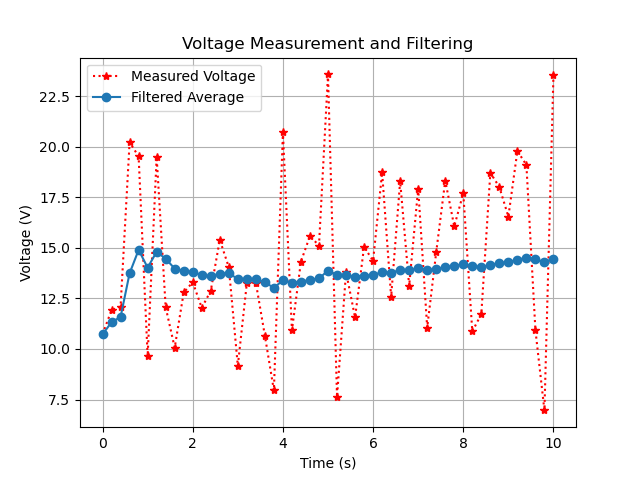
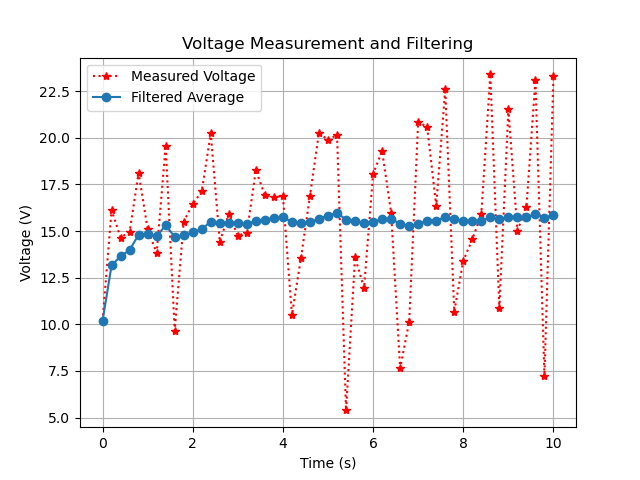
update

diff --git a/Python/02MovAvgFil/movAvg.py b/Python/02MovAvgFil/movAvg.py
@@ -1,0 +1,99 @@
+import numpy as np
+import matplotlib.pyplot as plt
+from scipy.io import loadmat
+
+# Sandy Herho <sandy.herho@email.ucr.edu>
+# This script simulates sonar measurements and applies a moving average filter to smooth the data.
+
+class MovAvgFilter:
+    def __init__(self, n=100):
+        """
+        Initialize the moving average filter with a specified buffer size.
+
+        Parameters:
+        n (int): The number of samples to use in the moving average.
+        """
+        self.n = n  # Buffer size
+        self.first_run = True
+
+    def compute(self, x):
+        """
+        Compute the moving average for a given input.
+
+        Parameters:
+        x (float): The new input sample.
+
+        Returns:
+        float: The moving average of the input.
+        """
+        if self.first_run:
+            self.xbuf = np.ones(self.n) * x  # Initialize buffer with the first value
+            self.first_run = False
+
+        # Shift the buffer and add the new value
+        self.xbuf[:-1] = self.xbuf[1:]
+        self.xbuf[-1] = x
+
+        # Compute and return the average
+        return np.sum(self.xbuf) / self.n
+
+def get_sonar():
+    """
+    Simulate a sonar reading using data from the loaded SonarAlt.mat file.
+
+    Returns:
+    float: The simulated sonar altitude.
+    """
+    if not hasattr(get_sonar, "initialized"):
+        # Emulate MATLAB's persistent variable with function attributes
+        get_sonar.initialized = True
+        get_sonar.k = 0
+        # Load sonar altitude data from the MATLAB file
+        mat_data = loadmat("SonarAlt.mat")
+        get_sonar.sonarAlt = mat_data["sonarAlt"].flatten()
+
+    # Get the current reading and increment the counter
+    h = get_sonar.sonarAlt[get_sonar.k % len(get_sonar.sonarAlt)]
+    get_sonar.k += 1
+    return h
+
+def main():
+    # User-configurable parameters
+    Nsamples = 1500  # Number of samples
+    dt = 0.02  # Time step in seconds
+    n = 100  # Moving average buffer size
+
+    t = np.arange(0, Nsamples * dt, dt)  # Time vector
+
+    # Storage for results
+    xsaved = np.zeros(Nsamples)  # Array to store filtered values
+    xmsaved = np.zeros(Nsamples)  # Array to store raw measurements
+
+    # Initialize the moving average filter
+    filter_instance = MovAvgFilter(n=n)
+
+    # Run the simulation
+    for k in range(Nsamples):
+        xm = get_sonar()  # Get a new sonar measurement
+        x = filter_instance.compute(xm)  # Apply the moving average filter
+
+        xsaved[k] = x  # Save the filtered value
+        xmsaved[k] = xm  # Save the raw measurement
+
+    # Plot the results
+    plt.figure()
+    plt.plot(t, xmsaved, 'r.', label='Measured')  # Raw sonar measurements
+    plt.plot(t, xsaved, 'k', linewidth=3, label='Moving Average')  # Filtered measurements
+    plt.xlabel('Time (s)')  # X-axis label
+    plt.ylabel('Sonar Altitude')  # Y-axis label
+    plt.legend(loc='upper left')  # Show legend
+    plt.title('Sonar Measurement and Moving Average Filter')  # Plot title
+    plt.grid()  # Show grid for better visualization
+
+    # Save the plot
+    plt.savefig("sonar_moving_average_results.png")  # Save the figure as a PNG file
+    plt.show()  # Display the plot
+
+if __name__ == "__main__":
+    main()
+
